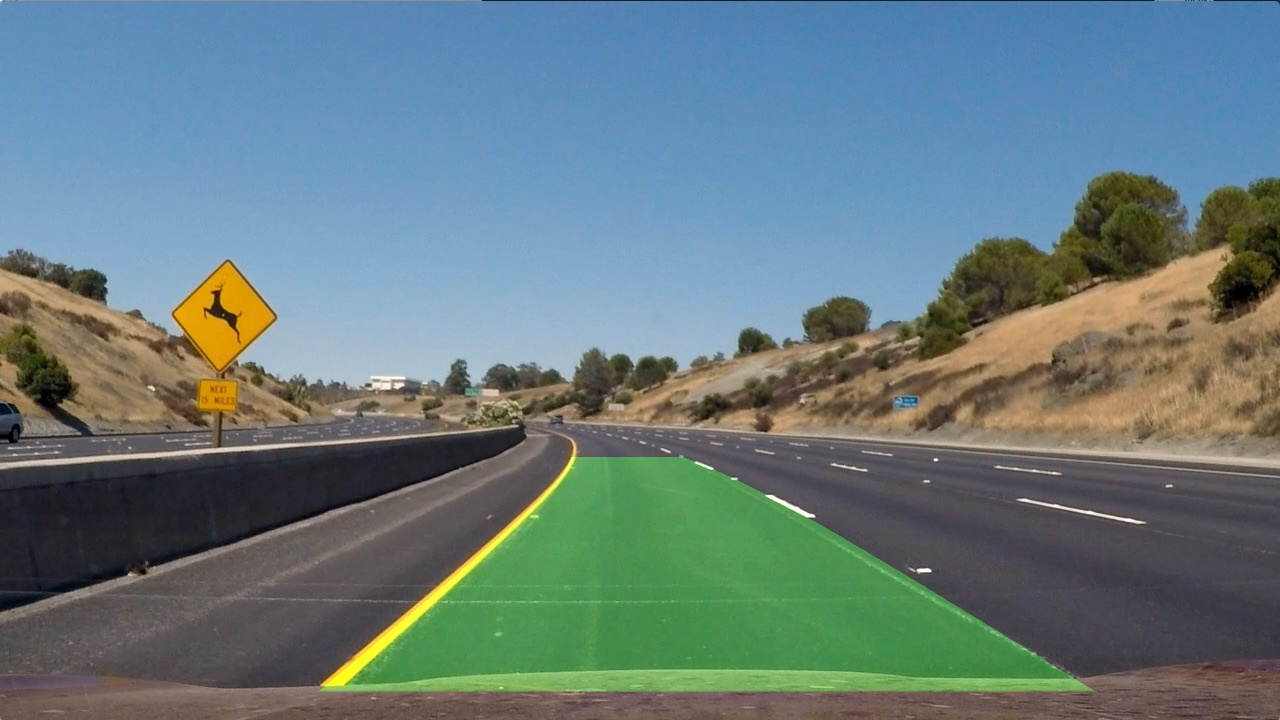
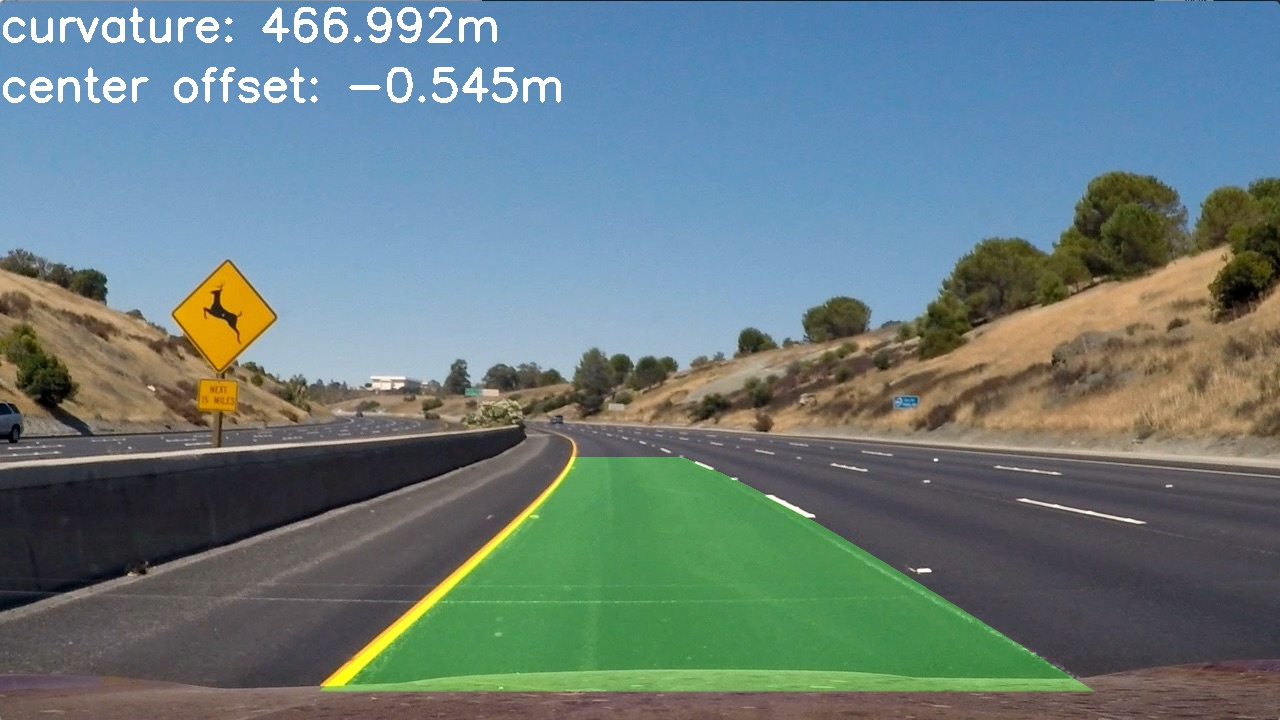
Process video file

Changed region(s): [[0.0, 0.0, 0.4062, 0.0611], [0.0, 0.0917, 0.25, 0.1528], [0.2812, 0.0917, 0.4375, 0.1528]]

diff --git a/lanelines/detector.py b/lanelines/detector.py
@@ -22,13 +22,18 @@ class Detector:
         self.draw_lines(out_image, line_left, out_image_left)
         self.draw_lines(out_image, line_right, out_image_right, channel=2)
 
-        lines_original = self.draw_lines_original(top_down, image, line_left, line_right)
-
         offset = self.center_offset(image, line_left, line_right)
+        lines_original = self.draw_lines_original(top_down, image, line_left, line_right)
+        self.draw_info(lines_original, line_left, line_right, offset)
+
         return out_image, line_left, line_right, offset, lines_original
 
     def center_offset(self, image, line_left, line_right):
         return (np.mean([line_left.fit_x[0], line_right.fit_x[0]]) - image.shape[1]/2) * line_left.meters_per_pixels[0]
+
+    def draw_info(self, lines_original, line_left, line_right, offset):
+        cv2.putText(lines_original, "curvature: %0.3fm" % line_left.radius_of_curvature, (0, 40), cv2.FONT_HERSHEY_SIMPLEX, 1.5, (255, 255, 255), 3)
+        cv2.putText(lines_original, "center offset: %0.3fm" % offset, (0, 100), cv2.FONT_HERSHEY_SIMPLEX, 1.5, (255, 255, 255), 3)
 
     def draw_lines(self, image, line, out_image, channel=0):
         image[:, :, channel] = out_image

diff --git a/lanelines/process_video.py b/lanelines/process_video.py
@@ -1,0 +1,28 @@
+from moviepy.editor import VideoFileClip
+from lanelines.camera import Camera
+from lanelines.detector import Detector
+from lanelines.binarizer import Binarizer
+
+
+camera = Camera.load()
+binarizer = Binarizer()
+detector = Detector(camera)
+
+
+def process_image(image):
+    lines_image, line_left, line_right, offset, lines_original = detector.detect(image)
+    return lines_original
+
+
+def process_video(filename):
+    white_output = '../'+filename+'_processed.mp4'
+    clip1 = VideoFileClip('../'+filename+'.mp4')
+    white_clip = clip1.fl_image(process_image)
+    white_clip.write_videofile(white_output, audio=False)
+
+
+def execute():
+    process_video('project_video')
+
+if __name__ == '__main__':
+    execute()
